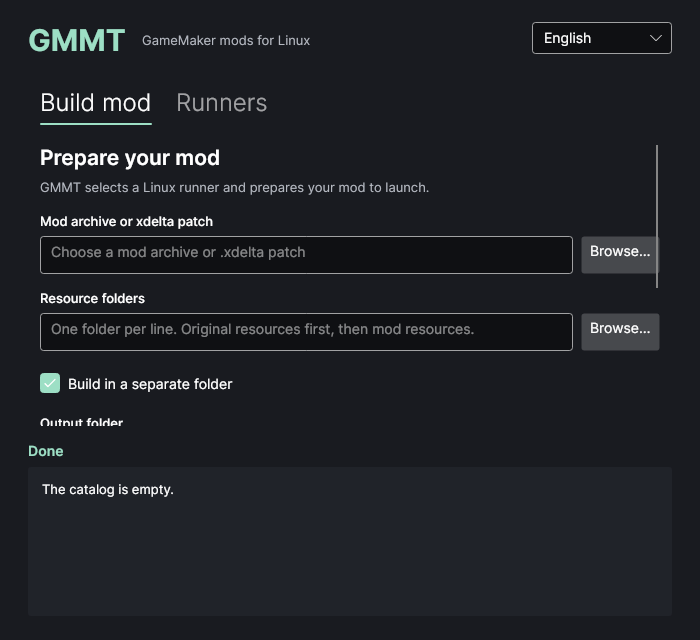
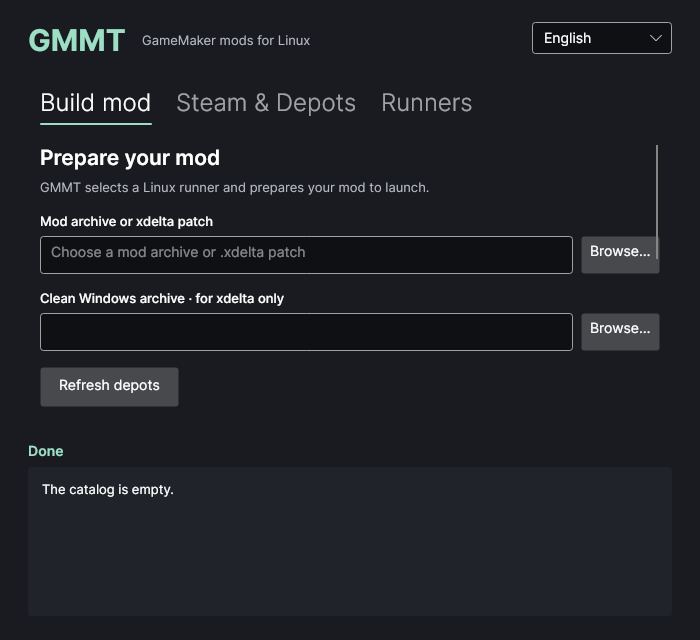
Auto-populate downloaded Steam depots, organize tabs and add tooltips

diff --git a/src/Gmmt.Desktop/MainWindow.cs b/src/Gmmt.Desktop/MainWindow.cs
@@ -70,54 +70,74 @@ public sealed class MainWindow : Window
 
         var build = new StackPanel { Spacing = 16, Margin = new Thickness(0, 16, 0, 20) };
         build.Children.Add(Heading("build.heading", "build.description"));
-        build.Children.Add(Field("input.label", input));
-        build.Children.Add(Field("assets.label", assets, true));
+        build.Children.Add(Field("input.label", input, tooltipKey: "tooltip.input"));
+        var vanillaField = Field("vanilla.label", vanilla, tooltipKey: "tooltip.vanilla");
+        var depotSearchBtn = Action("steam.depotSearch", Discover, tooltipKey: "tooltip.depotSearch");
+        depotSearchBtn.Margin = new Thickness(0, 0, 0, 8);
+        build.Children.Add(vanillaField);
+        build.Children.Add(depotSearchBtn);
+        build.Children.Add(Field("assets.label", assets, folder: true, tooltipKey: "tooltip.assets"));
         build.Children.Add(separate);
-        var packageOutput = Field("output.label", output, true, true);
+        Bind(() => ToolTip.SetTip(separate, T("tooltip.separate")));
+        var packageOutput = Field("output.label", output, folder: true, newFolder: true, tooltipKey: "tooltip.output");
         build.Children.Add(packageOutput);
-        var installation = new StackPanel { Spacing = 12, IsVisible = false };
-        installation.Children.Add(discoveredGames);
-        installation.Children.Add(Field("steam.label", steamDirectory, true));
-        installation.Children.Add(Action("steam.search", Discover));
-        discoveredGames.SelectionChanged += (_, _) => { if (discoveredGames.SelectedItem is DiscoveredGame found) steamDirectory.Text = found.Directory; };
-        installation.Children.Add(Note("steam.notice"));
-        installation.Children.Add(Action("steam.restore", RestoreSteam));
-        build.Children.Add(installation);
-        separate.IsCheckedChanged += (_, _) => { packageOutput.IsVisible = separate.IsChecked == true; installation.IsVisible = separate.IsChecked != true; };
+
         var advanced = new StackPanel { Spacing = 14, Margin = new Thickness(0, 12, 0, 8) };
-        advanced.Children.Add(Field("vanilla.label", vanilla));
-        var depotBtn = Action("steam.downloadDepot", DownloadDepotPrompt);
-        depotBtn.Margin = new Thickness(0, 0, 0, 4);
-        advanced.Children.Add(depotBtn);
-        advanced.Children.Add(Field("libraries.label", libraries, true));
-        advanced.Children.Add(Field("runner.label", runnerId, noBrowse: true));
+        advanced.Children.Add(Field("libraries.label", libraries, folder: true, tooltipKey: "tooltip.libraries"));
+        advanced.Children.Add(Field("runner.label", runnerId, noBrowse: true, tooltipKey: "tooltip.runner"));
         reviewed.Content = Label("extensions.review");
+        Bind(() => ToolTip.SetTip(reviewed, T("tooltip.reviewed")));
         advanced.Children.Add(reviewed);
         build.Children.Add(Disclosure("advanced", advanced));
+
         var actions = new WrapPanel { Orientation = Orientation.Horizontal };
-        var primary = Action("build.action", () => Build(true));
+        var primary = Action("build.action", () => Build(true), tooltipKey: "tooltip.buildAction");
         primary.Classes.Add("primary");
         Bind(() => primary.Content = T(separate.IsChecked == true ? "build.action" : "steam.install"));
         separate.IsCheckedChanged += (_, _) => primary.Content = T(separate.IsChecked == true ? "build.action" : "steam.install");
         primary.Margin = new Thickness(0, 0, 12, 8);
         actions.Children.Add(primary);
-        var inspect = Action("build.inspect", () => Build(false));
+        var inspect = Action("build.inspect", () => Build(false), tooltipKey: "tooltip.inspectAction");
         inspect.Margin = new Thickness(0, 0, 0, 8);
         actions.Children.Add(inspect);
         build.Children.Add(actions);
         build.Children.Add(Note("build.notice"));
 
+        var steamTab = new StackPanel { Spacing = 16, Margin = new Thickness(0, 16, 0, 20) };
+        steamTab.Children.Add(Heading("steam.heading", "steam.description"));
+        steamTab.Children.Add(Label("steam.label", 13, FontWeight.Medium));
+        steamTab.Children.Add(discoveredGames);
+        steamTab.Children.Add(Field("steam.label", steamDirectory, folder: true, tooltipKey: "tooltip.steamDirectory"));
+        discoveredGames.SelectionChanged += (_, _) => { if (discoveredGames.SelectedItem is DiscoveredGame found) steamDirectory.Text = found.Directory; };
+        
+        var steamActions = new WrapPanel { Orientation = Orientation.Horizontal };
+        var steamSearchBtn = Action("steam.search", Discover);
+        steamSearchBtn.Margin = new Thickness(0, 0, 12, 8);
+        steamActions.Children.Add(steamSearchBtn);
+        var depotBtn = Action("steam.downloadDepot", DownloadDepotPrompt, tooltipKey: "tooltip.downloadDepot");
+        depotBtn.Margin = new Thickness(0, 0, 12, 8);
+        steamActions.Children.Add(depotBtn);
+        var deltaruneBtn = Action("steam.installDeltarune", InstallDeltarune, tooltipKey: "tooltip.installDeltarune");
+        deltaruneBtn.Margin = new Thickness(0, 0, 12, 8);
+        steamActions.Children.Add(deltaruneBtn);
+        var restoreBtn = Action("steam.restore", RestoreSteam, tooltipKey: "tooltip.restoreSteam");
+        restoreBtn.Margin = new Thickness(0, 0, 0, 8);
+        steamActions.Children.Add(restoreBtn);
+        steamTab.Children.Add(steamActions);
+        steamTab.Children.Add(Note("steam.notice"));
+
+        separate.IsCheckedChanged += (_, _) => {
+            packageOutput.IsVisible = separate.IsChecked == true;
+        };
+
         var donors = new StackPanel { Spacing = 16, Margin = new Thickness(0, 16, 0, 20) };
         donors.Children.Add(Heading("runners.heading", "runners.description"));
         donors.Children.Add(discoveredRunners);
-        donors.Children.Add(Disclosure("search.extra", Field("search.label", extraRunnerRoots, true)));
+        donors.Children.Add(Disclosure("search.extra", Field("search.label", extraRunnerRoots, folder: true)));
         var runnerSearchActions = new WrapPanel { Orientation = Orientation.Horizontal };
         var searchRunnersBtn = Action("runners.search", Discover);
         searchRunnersBtn.Margin = new Thickness(0, 0, 12, 8);
         runnerSearchActions.Children.Add(searchRunnersBtn);
-        var deltaruneBtn = Action("steam.installDeltarune", InstallDeltarune);
-        deltaruneBtn.Margin = new Thickness(0, 0, 0, 8);
-        runnerSearchActions.Children.Add(deltaruneBtn);
         donors.Children.Add(runnerSearchActions);
         donors.Children.Add(Note("runners.notice"));
         discoveredRunners.SelectionChanged += (_, _) =>
@@ -127,11 +147,11 @@ public sealed class MainWindow : Window
             var slug = System.Text.RegularExpressions.Regex.Replace(found.Game.ToLowerInvariant(), "[^a-z0-9]+", "-").Trim('-');
             donorId.Text = (slug.Length == 0 ? "runner" : slug) + "-linux";
         };
-        donors.Children.Add(Field("catalog.label", catalog));
-        donors.Children.Add(Field("id.label", donorId, noBrowse: true));
-        donors.Children.Add(Field("elf.label", donorRunner));
-        donors.Children.Add(Field("reference.label", reference));
-        donors.Children.Add(Disclosure("runtime.optional", Field("runtime.label", runtime)));
+        donors.Children.Add(Field("catalog.label", catalog, tooltipKey: "tooltip.catalog"));
+        donors.Children.Add(Field("id.label", donorId, noBrowse: true, tooltipKey: "tooltip.donorId"));
+        donors.Children.Add(Field("elf.label", donorRunner, tooltipKey: "tooltip.donorRunner"));
+        donors.Children.Add(Field("reference.label", reference, tooltipKey: "tooltip.reference"));
+        donors.Children.Add(Disclosure("runtime.optional", Field("runtime.label", runtime, tooltipKey: "tooltip.runtime")));
         var donorActions = new WrapPanel();
         var add = Action("runners.add", Register); add.Classes.Add("primary"); add.Margin = new Thickness(0, 0, 12, 8);
         donorActions.Children.Add(add);
@@ -140,6 +160,7 @@ public sealed class MainWindow : Window
         donors.Children.Add(Note("runners.local"));
         tabs.ItemsSource = new[] {
             LocalizedTab("tab.build", new ScrollViewer { Content = build }),
+            LocalizedTab("tab.steam", new ScrollViewer { Content = steamTab }),
             LocalizedTab("tab.runners", new ScrollViewer { Content = donors })
         };
         var header = new Grid { ColumnDefinitions = new ColumnDefinitions("Auto,*,Auto"), Margin = new Thickness(0, 0, 0, 20) };
@@ -218,11 +239,20 @@ public sealed class MainWindow : Window
     }
 
     private TextBlock Note(string key) { var block = Label(key); block.MaxWidth = 820; block.Foreground = Muted; block.FontSize = 13; block.LineHeight = 20; return block; }
-    private Control Field(string label, TextBox box, bool folder = false, bool newFolder = false, bool noBrowse = false)
+    private Control Field(string label, TextBox box, bool folder = false, bool newFolder = false, bool noBrowse = false, string? tooltipKey = null)
     {
         var field = new StackPanel { Spacing = 7 };
-        field.Children.Add(Label(label, 13, FontWeight.Medium));
+        var labelBlock = Label(label, 13, FontWeight.Medium);
+        field.Children.Add(labelBlock);
         Bind(() => AutomationProperties.SetName(box, T(label)));
+        if (tooltipKey != null)
+        {
+            Bind(() => {
+                var text = T(tooltipKey);
+                ToolTip.SetTip(box, text);
+                ToolTip.SetTip(labelBlock, text);
+            });
+        }
         box.MinHeight = 38;
         var row = new Grid { ColumnDefinitions = new ColumnDefinitions("*,Auto") };
         row.Children.Add(box);
@@ -256,10 +286,14 @@ public sealed class MainWindow : Window
         field.Children.Add(row); return field;
     }
 
-    private Button Action(string title, Func<Task> action)
+    private Button Action(string title, Func<Task> action, string? tooltipKey = null)
     {
         var button = new Button { MinHeight = 40, Padding = new Thickness(18, 8) };
         Bind(() => button.Content = T(title));
+        if (tooltipKey != null)
+        {
+            Bind(() => ToolTip.SetTip(button, T(tooltipKey)));
+        }
         button.Click += async (_, _) =>
         {
             language.IsEnabled = false;
@@ -303,12 +337,15 @@ public sealed class MainWindow : Window
             ?? found.Games.FirstOrDefault(g => g.Name.Equals("Undertale", StringComparison.OrdinalIgnoreCase)) ?? found.Games.FirstOrDefault();
         if (game != null && (Value(steamDirectory).Length == 0 || found.Games.Any(g => g.Directory == Value(steamDirectory)))) discoveredGames.SelectedItem = game;
         if (Value(donorRunner).Length == 0 && found.Runners.Length != 0) discoveredRunners.SelectedIndex = 0;
-        if (string.IsNullOrWhiteSpace(Value(vanilla)) && found.Depots.Length != 0)
+        if (found.Depots.Length != 0)
         {
             var matchingDepot = (discoveredGames.SelectedItem is DiscoveredGame dg && dg.AppId != null
                 ? found.Depots.FirstOrDefault(d => d.AppId == dg.AppId)
                 : null) ?? found.Depots.FirstOrDefault();
-            if (matchingDepot != null) vanilla.Text = matchingDepot.ArchivePath;
+            if (matchingDepot != null && (string.IsNullOrWhiteSpace(Value(vanilla)) || !File.Exists(Value(vanilla))))
+            {
+                vanilla.Text = matchingDepot.ArchivePath;
+            }
         }
         if (!tabs.IsEnabled) return;
         SetLog(() => F("discovery.summary", found.Libraries.Length, found.Games.Length, found.Runners.Length)

diff --git a/src/Gmmt.Runtime/SteamDiscovery.cs b/src/Gmmt.Runtime/SteamDiscovery.cs
@@ -187,12 +187,27 @@ public static class SteamDiscovery
                     {
                         cancellation.ThrowIfCancellationRequested();
                         var depotId = Path.GetFileName(depotDir).Replace("depot_", "");
-                        foreach (var file in Directory.EnumerateFiles(depotDir, "*.*", SearchOption.AllDirectories).Take(64))
+                        // Check common archive filenames directly in depot root first, then search recursively if needed
+                        var candidates = new[] { "data.win", "game.win", "game.unx" };
+                        bool foundDirect = false;
+                        foreach (var name in candidates)
                         {
-                            var fname = Path.GetFileName(file).ToLowerInvariant();
-                            if (fname is "data.win" or "game.win" or "game.unx")
+                            var direct = Path.Combine(depotDir, name);
+                            if (File.Exists(direct))
                             {
-                                depots.Add(new(appId, depotId, Path.GetFullPath(file)));
+                                depots.Add(new(appId, depotId, Path.GetFullPath(direct)));
+                                foundDirect = true;
+                            }
+                        }
+                        if (!foundDirect)
+                        {
+                            foreach (var file in Directory.EnumerateFiles(depotDir, "*.*", SearchOption.AllDirectories).Take(512))
+                            {
+                                var fname = Path.GetFileName(file).ToLowerInvariant();
+                                if (fname is "data.win" or "game.win" or "game.unx")
+                                {
+                                    depots.Add(new(appId, depotId, Path.GetFullPath(file)));
+                                }
                             }
                         }
                     }

diff --git a/tests/Gmmt.Desktop.Tests/Program.cs b/tests/Gmmt.Desktop.Tests/Program.cs
@@ -36,13 +36,13 @@ try
     input.Text = "/tmp/preserved-mod.win";
     catalog.Text = Path.Combine(root, "empty-catalog.json");
     separate.IsChecked = false;
-    tabs.SelectedIndex = 1;
+    tabs.SelectedIndex = 2;
     var list = window.GetLogicalDescendants().OfType<Button>().Distinct().Single(b => b.Content?.ToString() == "Show catalog");
     list.RaiseEvent(new RoutedEventArgs(Button.ClickEvent));
     Check(Find<TextBox>(window, "OperationLog").Text == "The catalog is empty.", "English catalog result failed");
     language.SelectedIndex = 2;
     Check(window.Title == "GMMT · Моды для Linux" && locale.Preference == "ru", "Live Russian selection failed");
-    Check(input.Text == "/tmp/preserved-mod.win" && tabs.SelectedIndex == 1 && separate.IsChecked == false, "Language change reset workflow state");
+    Check(input.Text == "/tmp/preserved-mod.win" && tabs.SelectedIndex == 2 && separate.IsChecked == false, "Language change reset workflow state");
     Check(Find<TextBox>(window, "OperationLog").Text == "Каталог пуст." && Find<TextBlock>(window, "OperationStatus").Text == "Готово", "Result/status were not retranslated");
     Check(window.GetLogicalDescendants().OfType<Button>().Any(b => b.Content?.ToString() == "Установить мод в Steam"), "Dynamic installation button was not translated");
     tabs.SelectedIndex = 0;
